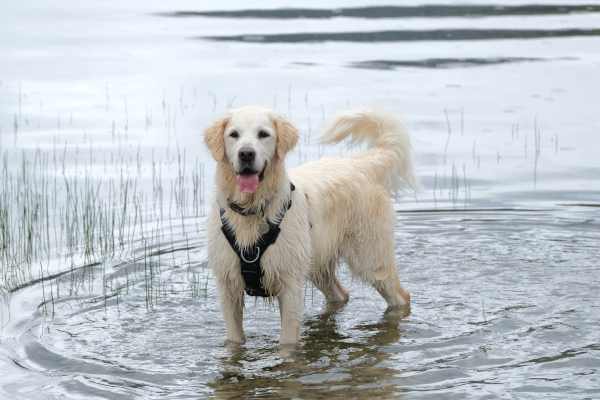
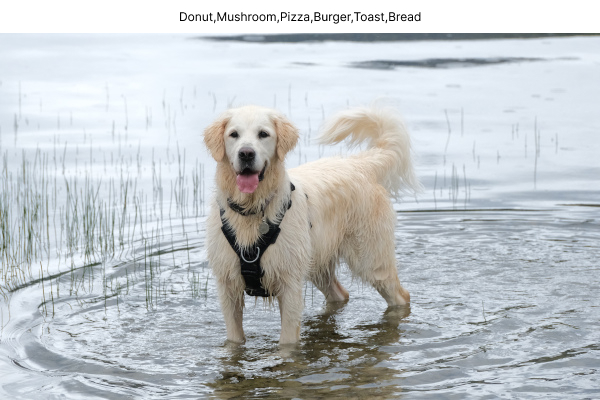
:hammer: Added LLM-generated keywords to images.

Changed region(s): [[0.0, 0.0, 1.0, 0.09]]

diff --git a/README.md b/README.md
@@ -1,20 +1,23 @@
+# Image Tagger
+
 Keyword-tag images with a local LLM (default llava:7b) and use fuzzy match with a search query to find and display image matches.
 
 ![example output](img/example.jpg)
 
-### Example Use
-Tag all photos in the specified directory.
+## Example Use
+Tag all photos in the specified directory:
 ```
 python cli.py -t ~/Desktop/photos/
 ```
-Query images for a keyword and return matches.
+Query images for a keyword and return matches:
 ```
 python cli.py -s mountains 
 ```
 
-### Note
-- Needs an ollama server running to tag images with keywords (but not to search stored keywords). Ensure ollama is installed and run `ollama serve`
-- It doesn't work very well, though it used to (2 months ago) work better...
+## Note
+- Needs an ollama server running to tag images with keywords (but not to search stored keywords); ensure ollama is installed and run `ollama serve`.
+- Will attempt to install llava:7b through ollama if it is not already installed.
+- The tagging doesn't work very well, though it used to (2 months ago) work better...
 
 ![dog (not a donut, mushroom, pizza, burger, toast, or bread)](img/1.jpg)
 Donut,Mushroom,Pizza,Burger,Toast,Bread
